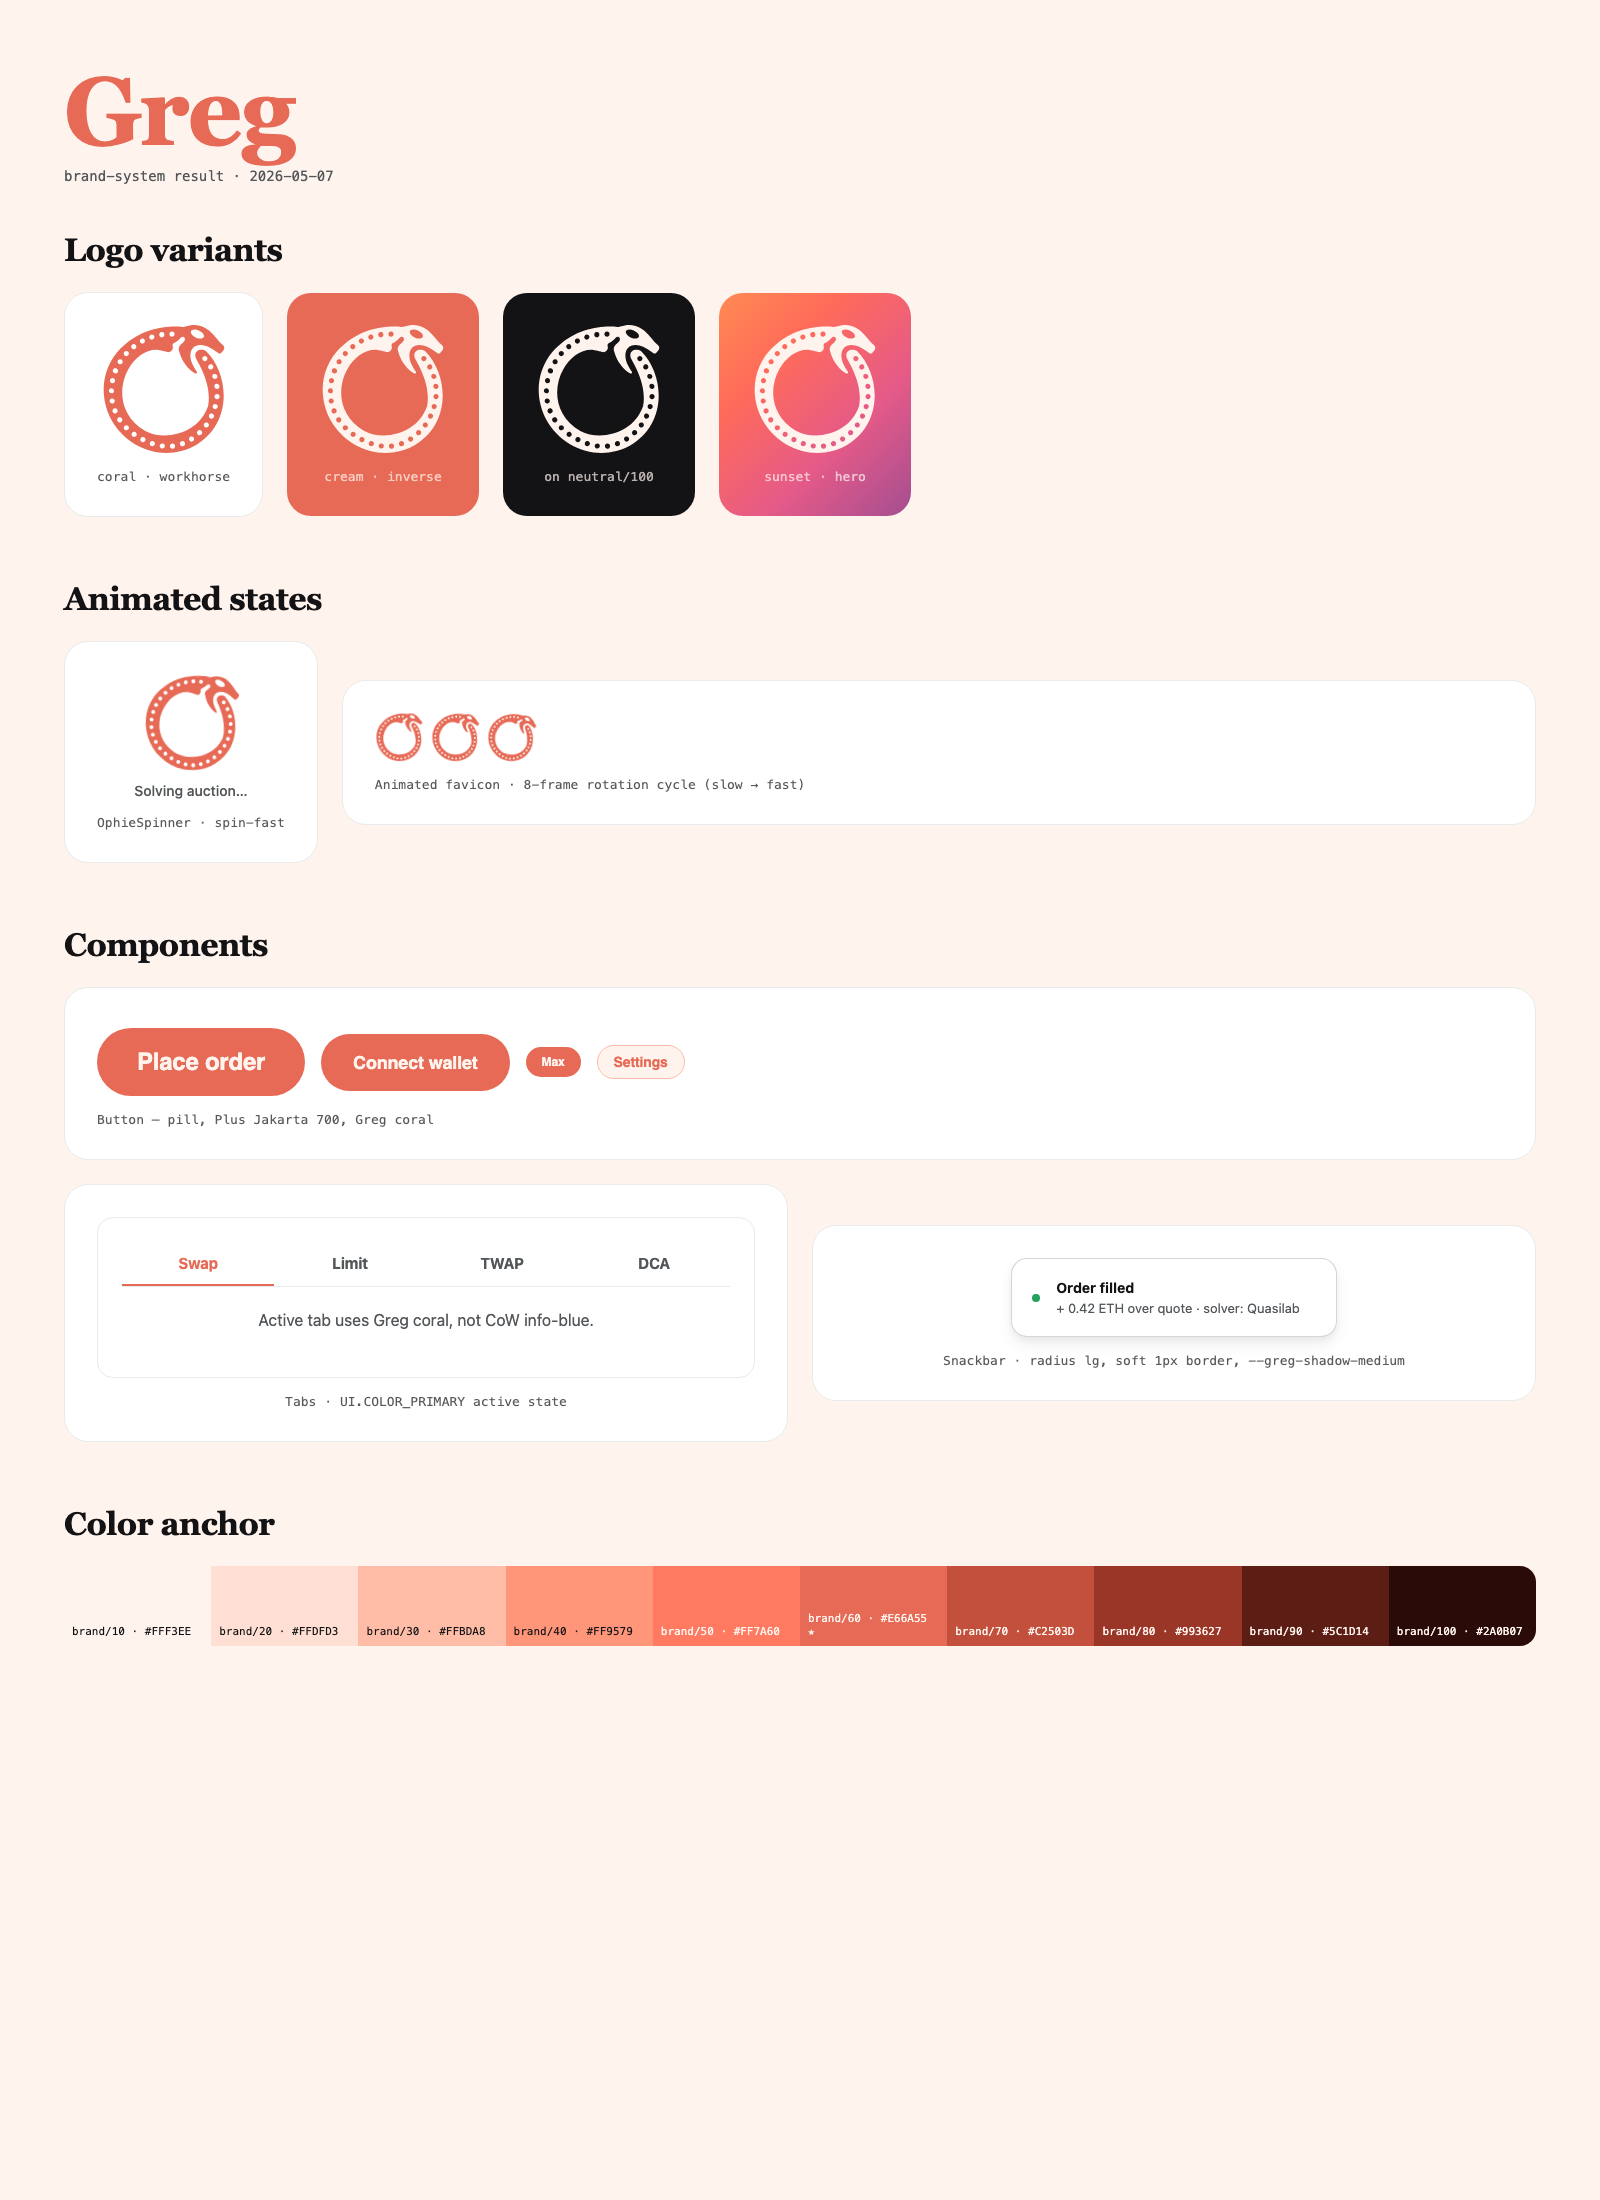
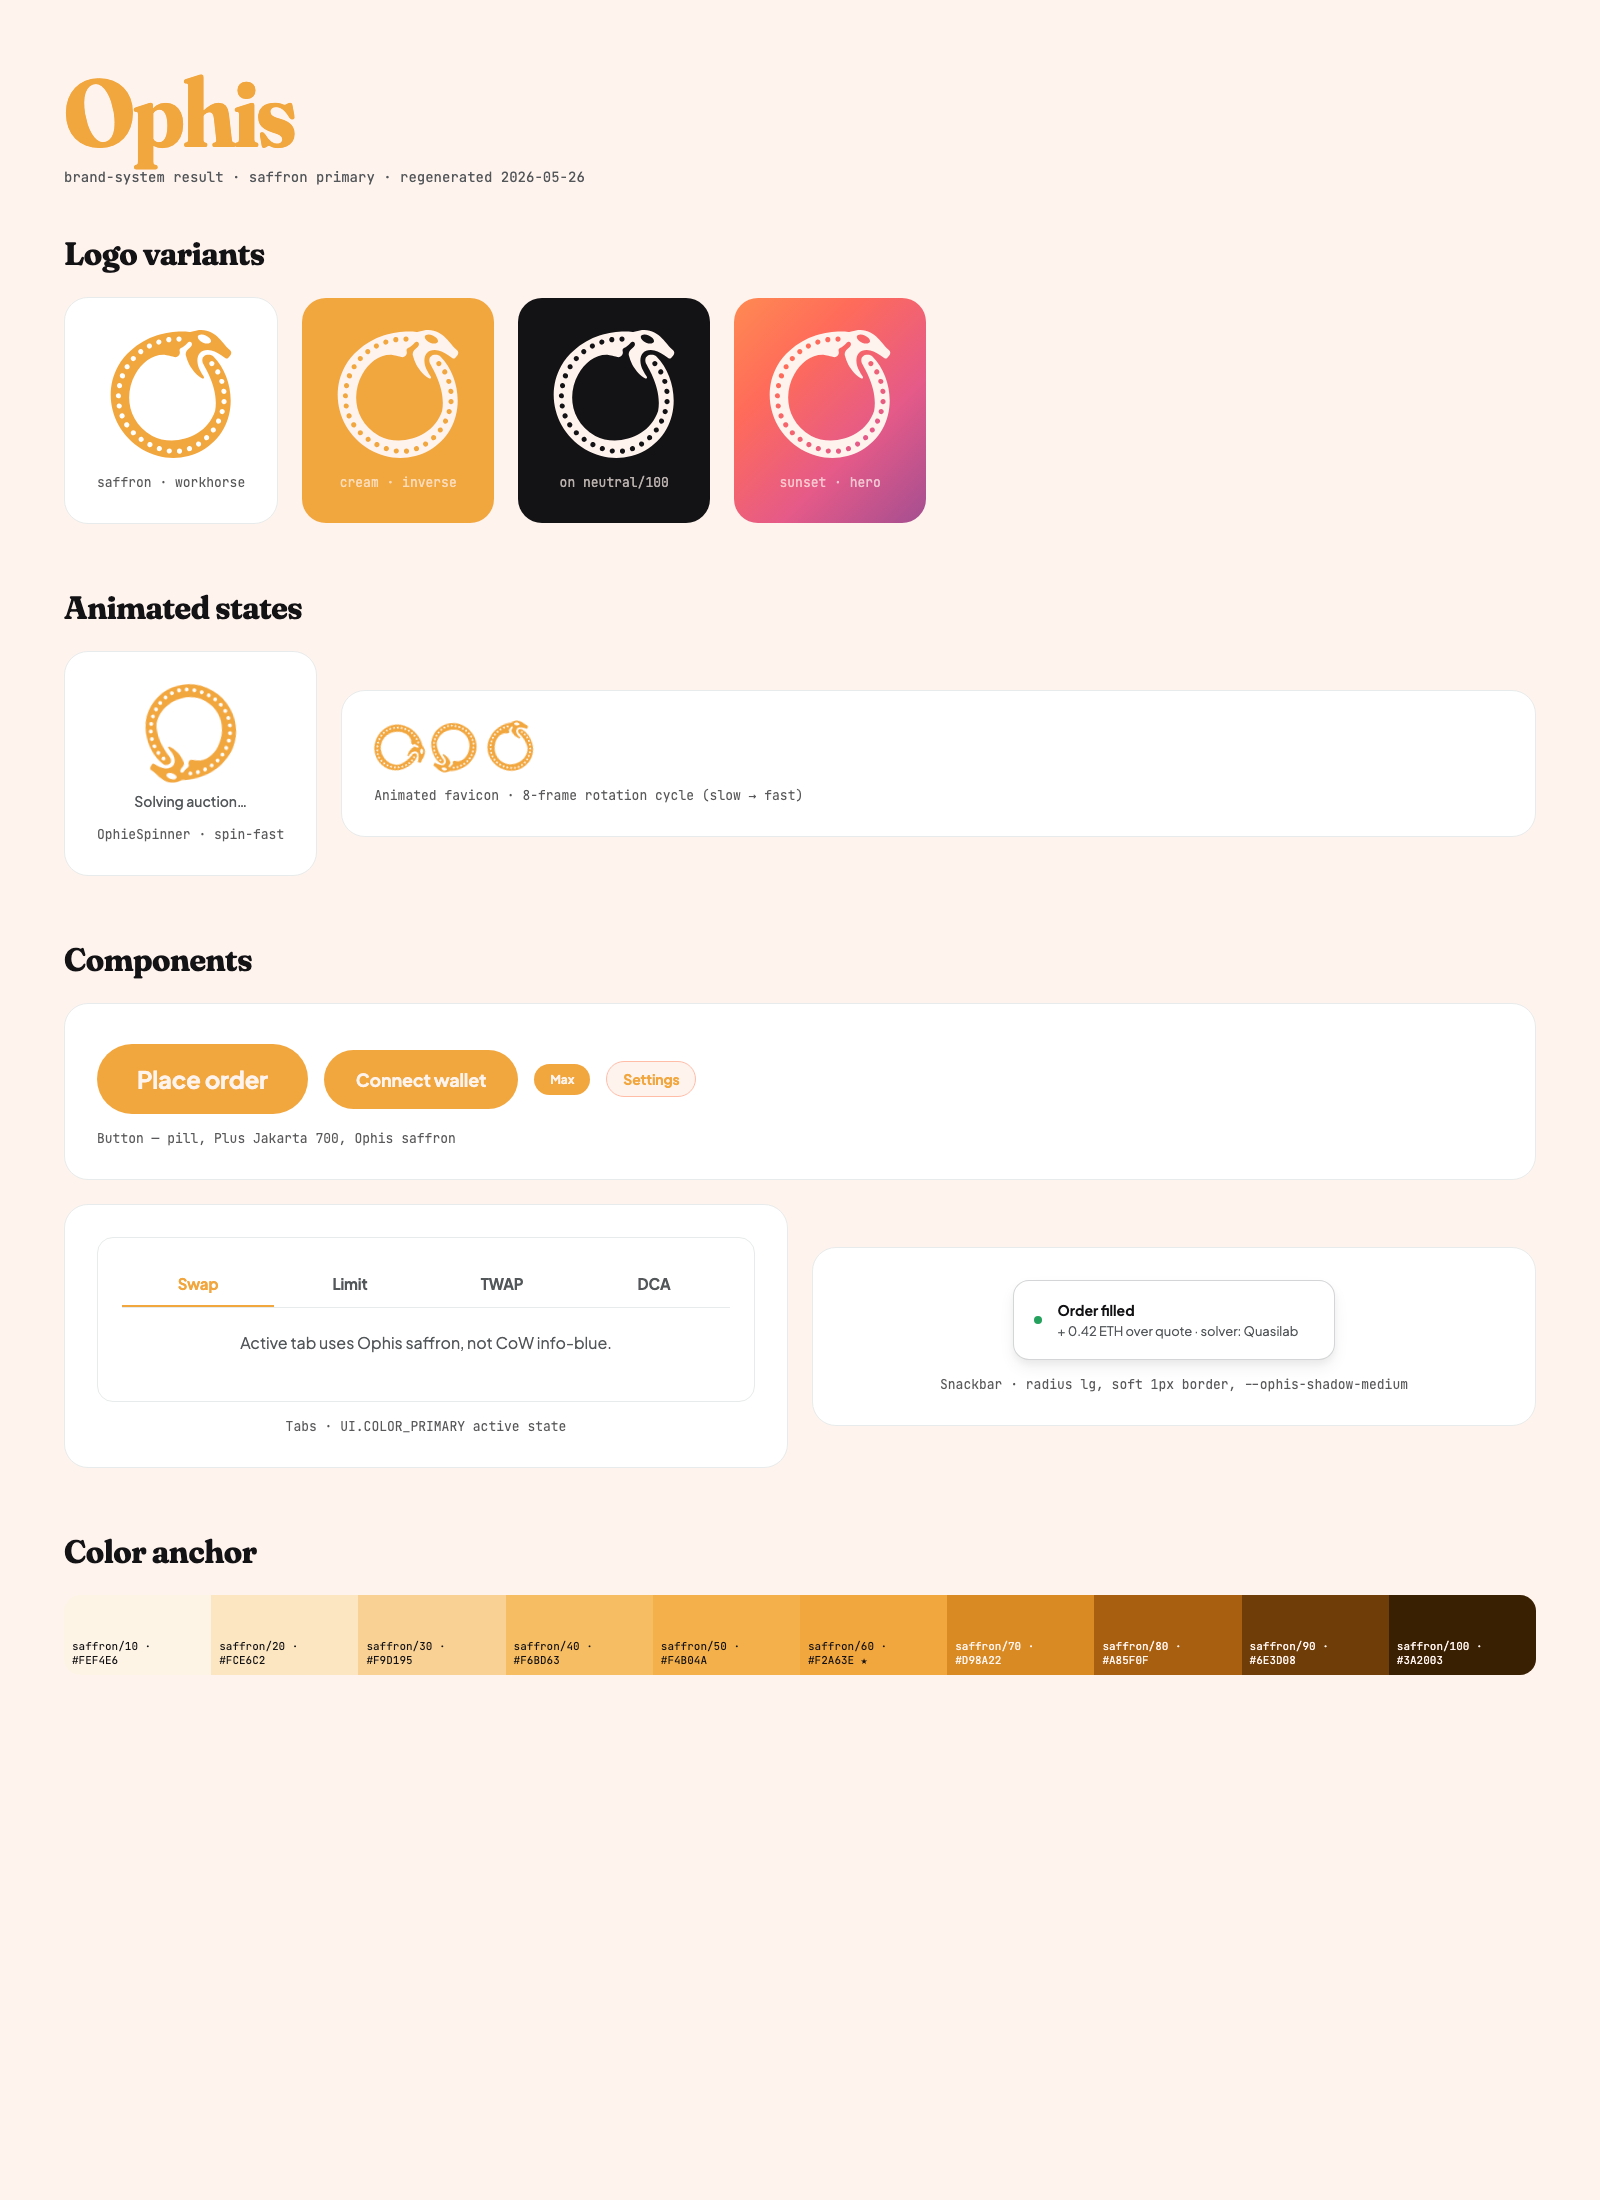
chore(brand): regenerate brand sheet to saffron primary
The sheet still showed the old coral system (#E66A55) + "Greg", but the
live primary is saffron #f2a63e (set in getCowswapTheme.ts).

- sheet.html: recolor solid primary coral -> saffron #f2a63e (title, logo
  mark, buttons, active tab, spinner/favicon); rebuild the color-anchor
  ramp as saffron/10..100; rename tile-coral -> tile-saffron; de-Greg the
  labels ("Greg coral" -> "Ophis saffron", --greg-shadow -> --ophis-shadow).
  Kept the documented sunset gradient hero tile unchanged.
- sheet.png: regenerated via headless Chrome.
- README: color descriptions coral -> saffron; added --virtual-time-budget
  to the regen command so Google Fonts load before capture.

Not done here (separate reconciliations): the sheet still uses Fraunces/
Plus Jakarta while the live site moved to Geist, and the --ophis-brand-*
ramp in tokens.ts/styles.css is still coral.

diff --git a/docs/brand/README.md b/docs/brand/README.md
@@ -7,13 +7,14 @@ fallback at 1600×~2200 for quick previews and PR comments.
 
 What's on the sheet:
 
-- **Logo variants** — coral workhorse, cream inverse, on neutral, sunset hero.
+- **Logo variants** — saffron workhorse, cream inverse, on neutral, sunset hero.
 - **Animated states** — `OphieSpinner` at full size, plus three rotation
   speeds (slow / normal / fast) showing the favicon cycle.
 - **Components** — pill button hierarchy (BIG/DEFAULT/SMALL secondary), tabs
-  with coral underline, snackbar with `--ophis-shadow-medium`.
-- **Color anchor** — `brand/10..100` ramp with `brand/60 #E66A55` as the
-  primary action anchor (★).
+  with saffron underline, snackbar with `--ophis-shadow-medium`.
+- **Color anchor** — `saffron/10..100` ramp with `saffron/60 #f2a63e` as the
+  primary action anchor (★) — matches the live primary set in
+  `getCowswapTheme.ts`.
 
 Source-of-truth files:
 
@@ -33,7 +34,7 @@ Regenerate `sheet.png` from `sheet.html`:
 ```sh
 "/Applications/Google Chrome.app/Contents/MacOS/Google Chrome" \
   --headless=new --no-sandbox --disable-gpu --hide-scrollbars \
-  --window-size=1600,2200 \
+  --window-size=1600,2200 --virtual-time-budget=4000 \
   --screenshot=docs/brand/sheet.png \
   "file://$(pwd)/docs/brand/sheet.html"
 ```